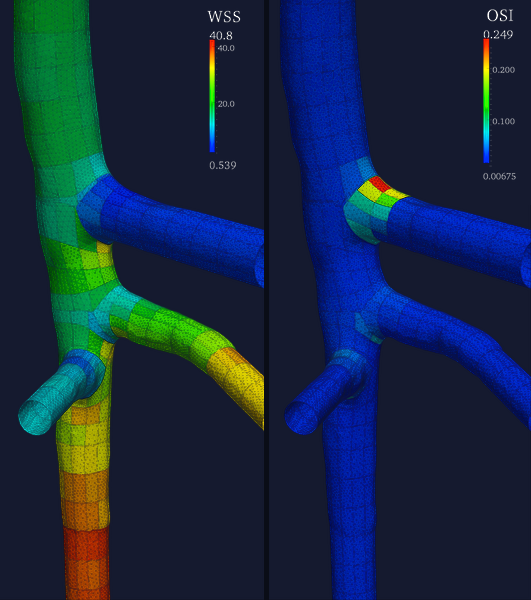
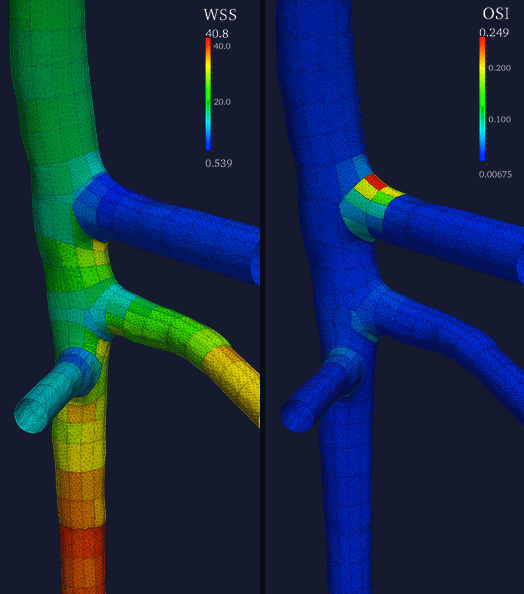
fixed home_geometry img

diff --git a/_includes/bullet-geometric-analysis.html b/_includes/bullet-geometric-analysis.html
@@ -17,7 +17,7 @@ vmtksurfacereader -ifile foo.vtp --pipe vmtkcenterlines -seedselector openprofil
 <div class="hidden-bullet-wrapper" style="width: 500px">
 
 <figure class="code bullet-description2" style="margin-top: 10px;">
-    <img alt="Figure 1" src="/resources/img/geometry_home.png" />
+    <img alt="Figure 1" src="/resources/img/home_geometry.png" />
 </figure>
 </div>
 
